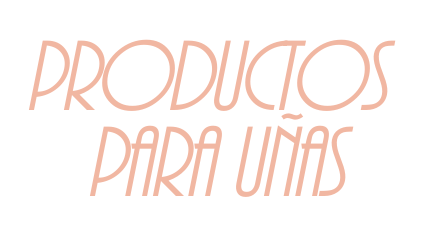
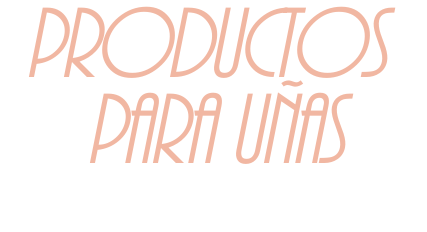
whatsapp

Changed region(s): [[0.0609, 0.0302, 0.9438, 0.8448]]

diff --git a/src/assets/assets/css/style.min.css b/src/assets/assets/css/style.min.css
@@ -1971,7 +1971,7 @@ hr {
 
 .hero-slide-content .hero-slide-text-img {
     position: absolute;
-    top: 7px;
+    top: 0px;
     left: 2px;
     z-index: -1;
     pointer-events: none
@@ -2010,6 +2010,7 @@ hr {
     font-size: 67px;
     font-weight: 700;
     margin-bottom: 14px;
+    padding-top: 15px;
     text-transform: uppercase
 }
 
@@ -7998,7 +7999,7 @@ hr {
     font-size: 14px;
     padding: 18px 24px
 }
-..whatsapp {
+.whatsapp {
   position:fixed;
   width:40px;
   height:40px;

diff --git a/src/app/components/pages/shop/shop.component.ts b/src/app/components/pages/shop/shop.component.ts
@@ -17,7 +17,7 @@ export class ShopComponent implements OnInit {
   categories: any;
   categories$: any;
     public init:number=1;
-  public end:number=12;
+  public end:number=9;
   constructor(
    private apollo: Apollo,
     public dataApi: DataService,

diff --git a/src/app/app.component.html b/src/app/app.component.html
@@ -26,6 +26,7 @@
                 </li>
             </ul>
     </div>
+    
    
 
     <!--== Start Product Quick Wishlist Modal ==-->
